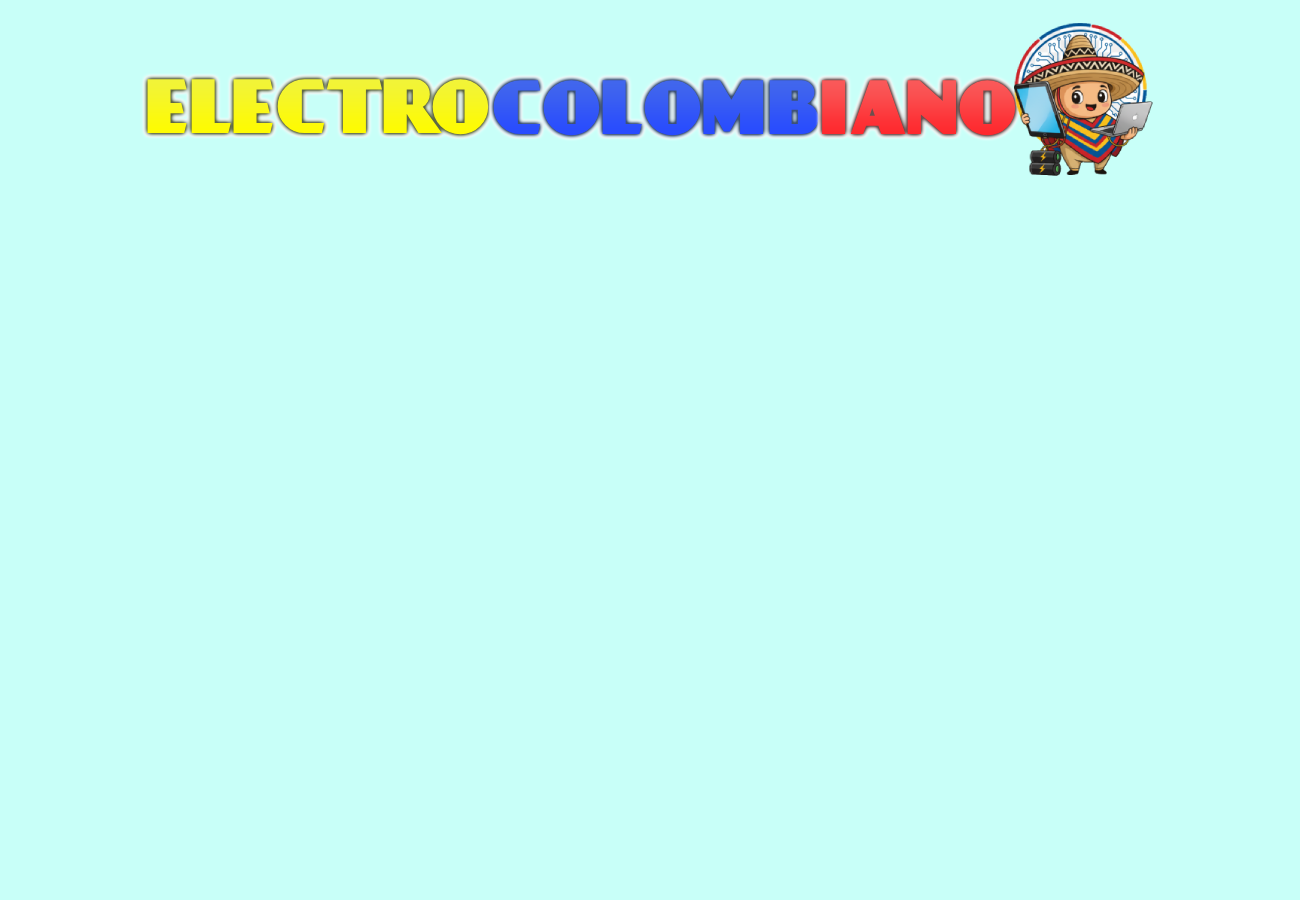
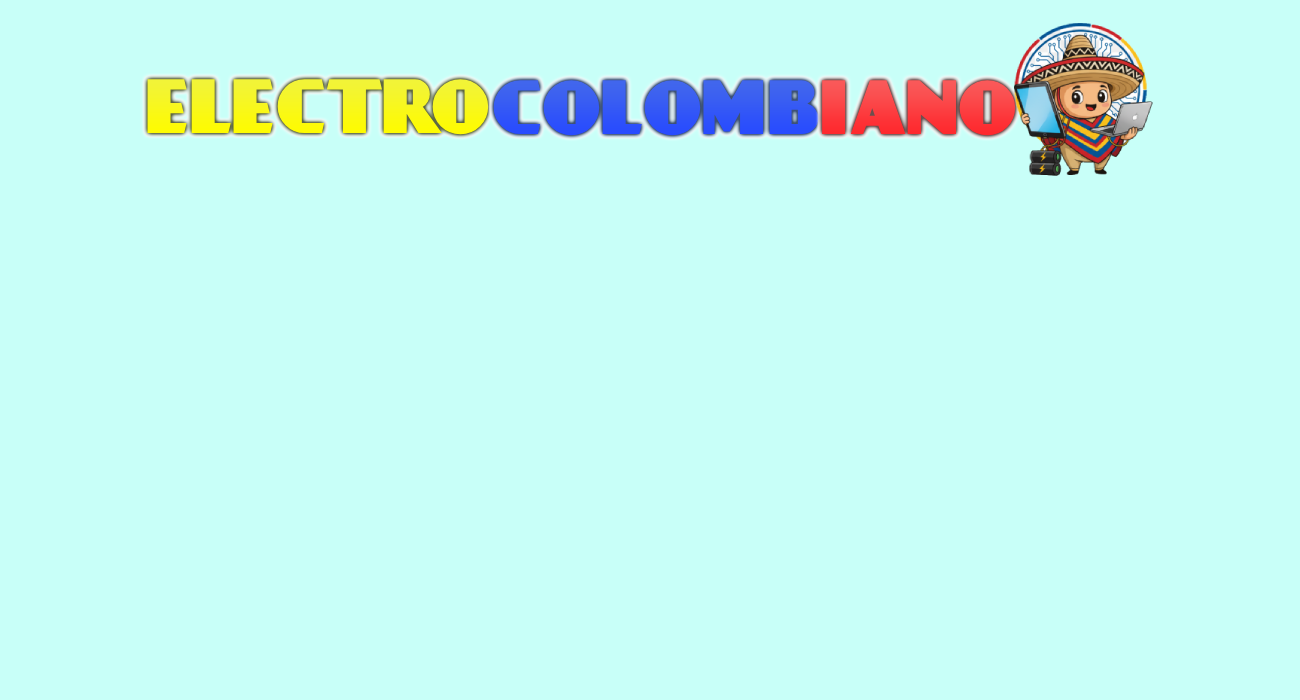
ResolutionProject was fixed

Changed region(s): [[0.0923, 0.03, 0.8923, 0.27]]

diff --git a/src/main/java/co/bases/datos/proyectofinaldatabase/HelloApplication.java b/src/main/java/co/bases/datos/proyectofinaldatabase/HelloApplication.java
@@ -11,8 +11,8 @@ public class HelloApplication extends Application {
     @Override
     public void start(Stage stage) throws IOException {
         FXMLLoader fxmlLoader = new FXMLLoader(HelloApplication.class.getResource("login.fxml"));
-        Scene scene = new Scene(fxmlLoader.load(), 1300, 900);
-        stage.setTitle("ELECTROCOLOMBIANO -Inicio de Sesión-!");
+        Scene scene = new Scene(fxmlLoader.load(), 1300, 700);
+        stage.setTitle("ELECTROCOLOMBIANO -Inicio de Sesión-");
         stage.setScene(scene);
         stage.show();
     }
